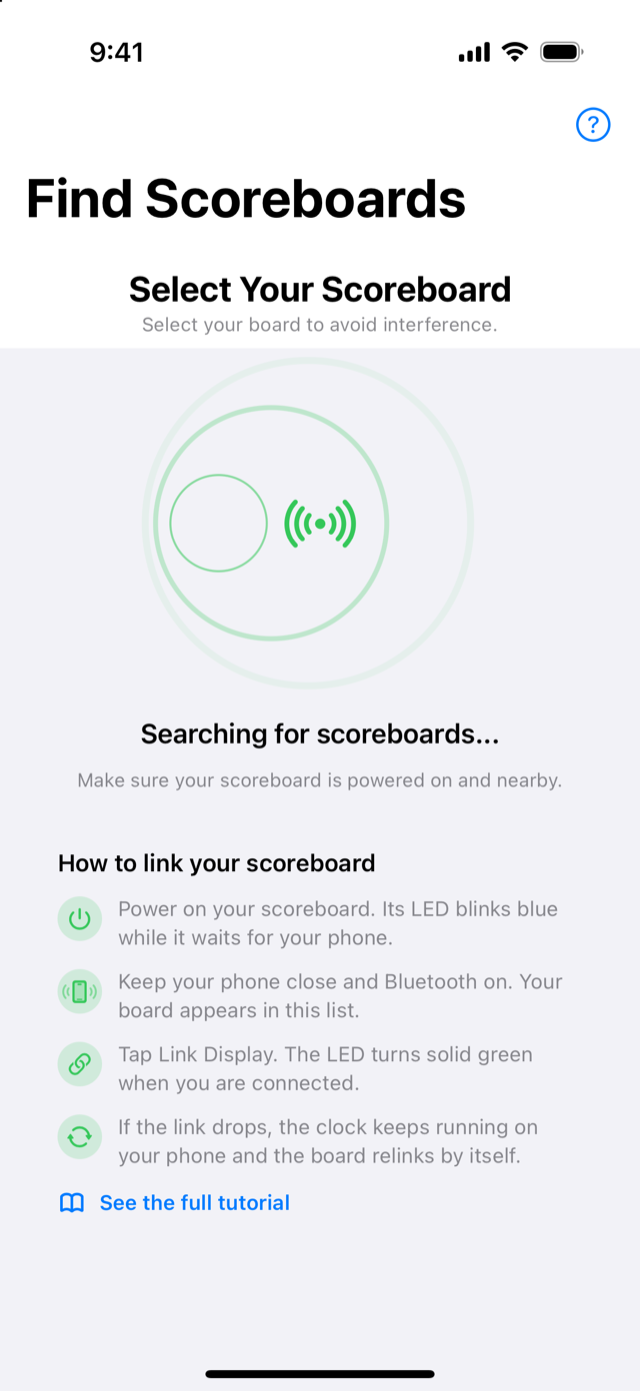
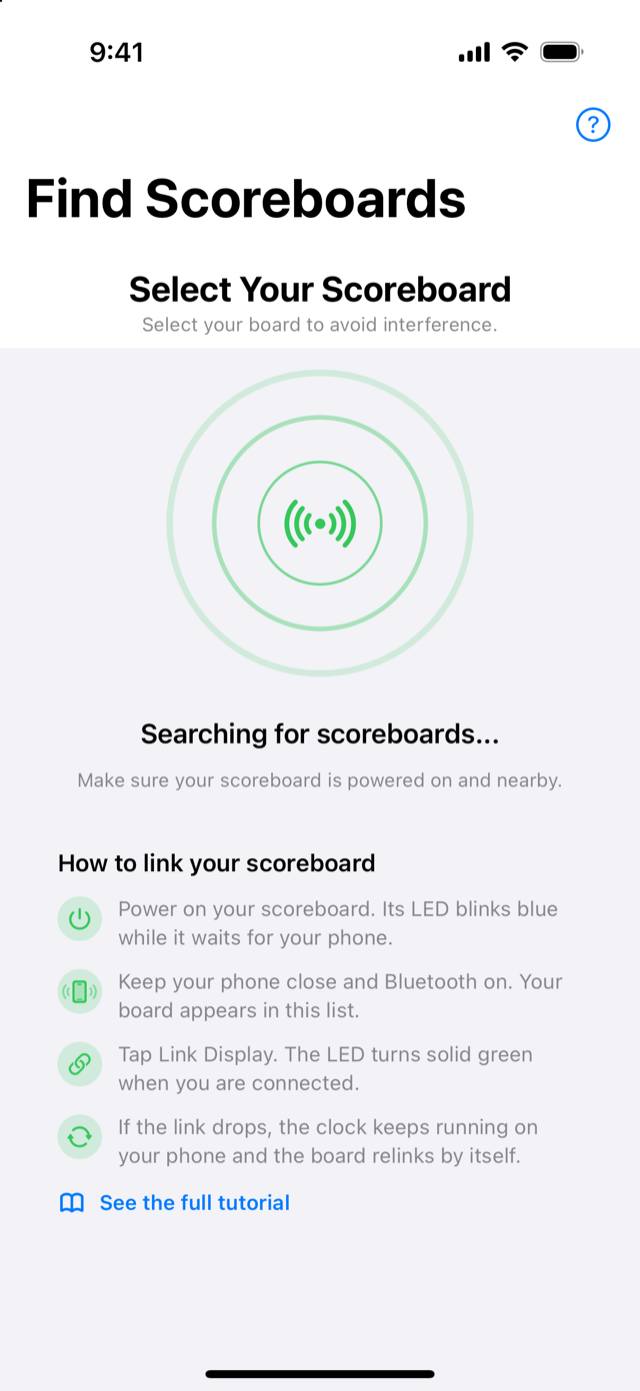
Watch: add/subtract scores, follow the phone, fit the screen; new tutorial images
- Watch app gets - / + buttons per team (0-99) and shares one WatchModel that
  follows the phone's scores, period, clock state and alerts. Each watch
  action sends only the value it changed, so stale values can't overwrite the
  phone.
- Phone pushes state to the watch even when no board is linked, and answers the
  watch's sync request on launch.
- Compact pill buttons so the whole watch screen fits (Reset was cut off);
  score text is white (it was nearly invisible).
- Show the period/match alert banner on the watch.
- Cleaner first tutorial image (frozen radar) and simulator watch screenshots
  in English and Spanish; tutorial page 5 and docs updated.

diff --git a/ScoreboardWatch Watch App/ContentView.swift b/ScoreboardWatch Watch App/ContentView.swift
@@ -6,149 +6,165 @@
 //
 
 import SwiftUI
+import Combine
 import WatchConnectivity
 import WatchKit
 
-class WatchSessionDelegate: NSObject, WCSessionDelegate {
-    func session(_ session: WCSession, activationDidCompleteWith activationState: WCSessionActivationState, error: Error?) {}
-    
-    // Captures the background alert payload string signals forwarded from your iPhone
-    func session(_ session: WCSession, didReceiveMessage message: [String : Any]) {
-        if let alertID = message["triggerAlert"] as? Int {
-            DispatchQueue.main.async {
+/// Watch-side copy of the match state. The iPhone app owns the clock and the Bluetooth link;
+/// the watch follows its updates and sends back only the value the user just changed.
+final class WatchModel: NSObject, ObservableObject, WCSessionDelegate {
+    @Published var homeScore = 0
+    @Published var awayScore = 0
+    @Published var period = 1
+    @Published var totalPeriods = 4
+    @Published var isRunning = false
+    @Published var periodLabelText = String(localized: "Period")
+    @Published var alertText = ""
+    @Published var showAlert = false
+
+    static let maxScore = 99
+
+    override init() {
+        super.init()
+        // Sample state for tutorial screenshots in the simulator (`-demo`).
+        if ProcessInfo.processInfo.arguments.contains("-demo") { homeScore = 12; awayScore = 9; period = 2 }
+        if WCSession.isSupported() {
+            WCSession.default.delegate = self
+            WCSession.default.activate()
+        }
+    }
+
+    // MARK: - Actions (each sends only the keys it changed, so a stale value can't overwrite the phone)
+    func changeHome(by delta: Int) { homeScore = min(max(homeScore + delta, 0), Self.maxScore); send(["h": homeScore]) }
+    func changeAway(by delta: Int) { awayScore = min(max(awayScore + delta, 0), Self.maxScore); send(["a": awayScore]) }
+    func nextPeriod() { period = period < totalPeriods ? period + 1 : 1; send(["p": period]) }
+    func toggleRunning() { isRunning.toggle(); send(["r": isRunning]) }
+    func reset() {
+        homeScore = 0; awayScore = 0; period = 1; isRunning = false
+        send(["h": 0, "a": 0, "p": 1, "r": false])
+    }
+
+    private func send(_ payload: [String: Any]) {
+        guard WCSession.default.activationState == .activated else { return }
+        WCSession.default.sendMessage(payload, replyHandler: nil, errorHandler: nil)
+    }
+
+    // MARK: - WCSessionDelegate
+    func session(_ session: WCSession, activationDidCompleteWith activationState: WCSessionActivationState, error: Error?) {
+        // Ask the phone for the current match state; it answers with a full update.
+        if activationState == .activated { send(["sync": true]) }
+    }
+
+    func session(_ session: WCSession, didReceiveMessage message: [String: Any]) {
+        DispatchQueue.main.async {
+            // State pushed by the iPhone (scores, period, clock running, labels)
+            if let h = message["h"] as? Int { self.homeScore = min(max(h, 0), Self.maxScore) }
+            if let a = message["a"] as? Int { self.awayScore = min(max(a, 0), Self.maxScore) }
+            if let t = message["t"] as? Int, t >= 1 { self.totalPeriods = t }
+            if let p = message["p"] as? Int { self.period = min(max(p, 1), self.totalPeriods) }
+            if let r = message["r"] as? Bool { self.isRunning = r }
+            if let l = message["l"] as? String { self.periodLabelText = l }
+
+            // Alerts from the iPhone: haptic for kickoff, period change and final whistle, plus a banner
+            if let alertID = message["triggerAlert"] as? Int {
                 switch alertID {
-                case 1:
-                    // Digital Click Tap for kickoff/start
-                    WKInterfaceDevice.current().play(.click)
-                case 2:
-                    // Distinct long notification chime/vibration for intermission
-                    WKInterfaceDevice.current().play(.notification)
-                case 3:
-                    // Loud, prolonged Alarm tone vibration mimicking the final match whistle
-                    WKInterfaceDevice.current().play(.success)
-                default:
-                    break
+                case 1: WKInterfaceDevice.current().play(.click)
+                case 2: WKInterfaceDevice.current().play(.notification)
+                case 3: WKInterfaceDevice.current().play(.success)
+                default: break
                 }
+            }
+            if let text = message["alertText"] as? String, !text.isEmpty {
+                self.alertText = text
+                withAnimation { self.showAlert = true }
+                DispatchQueue.main.asyncAfter(deadline: .now() + 2.5) { withAnimation { self.showAlert = false } }
             }
         }
-        if let alertText = message["alertText"] as? String {
-                DispatchQueue.main.async {
-                    // Accessing global view bindings directly can break scope rules inside un-mapped delegates.
-                    // Instead, pass the alert trigger downstream over a global Notification Center posting or write into a shared view controller model if preferred.
-                }
-            }
-        
     }
 }
+
 // MARK: - Watch Control Interface Layout View
 struct ContentView: View {
-    @State private var homeScore = 0
-    @State private var awayScore = 0
-    @State private var period = 1
-    @State private var totalPeriods = 4
-    @State private var isRunning = false
-    @State private var periodLabelText = String(localized: "Period")
-    @State private var sessionDelegate = WatchSessionDelegate()
-    @State private var watchAlertText = ""
-    @State private var showWatchAlert = false
-
-    // Transmits messages instantly down to the linked iPhone background receiver
-    func pushToPhone() {
-        guard WCSession.default.activationState == .activated else {
-            print("Sync Error: Watch Session Not Active")
-            return
+    @StateObject private var model = WatchModel()
+    
+    /// Compact capsule button so the whole screen fits on the watch without scrolling.
+    private func pill<Label: View>(tint: Color, filled: Bool = false, height: CGFloat = 32,
+                                   action: @escaping () -> Void, @ViewBuilder label: () -> Label) -> some View {
+        Button(action: action) {
+            label()
+                .frame(maxWidth: .infinity, minHeight: height)
+                .background(filled ? tint : tint.opacity(0.28), in: Capsule())
         }
-        let payload: [String: Any] = [
-            "h": homeScore,
-            "a": awayScore,
-            "p": period,
-            "r": isRunning,
-            "t": totalPeriods,
-            "l": periodLabelText
-        ]
-        WCSession.default.sendMessage(payload, replyHandler: nil, errorHandler: nil)
+        .buttonStyle(.plain)
+    }
+    
+    /// One team: name, score and - / + buttons.
+    private func teamBlock(name: LocalizedStringKey, color: Color, score: Int,
+                           change: @escaping (Int) -> Void) -> some View {
+        VStack(spacing: 3) {
+            Text(name).font(.system(size: 10, weight: .bold)).foregroundColor(color)
+            Text("\(score)").font(.title2).bold().foregroundColor(.white)
+            HStack(spacing: 4) {
+                pill(tint: color, height: 30, action: { change(-1) }) {
+                    Image(systemName: "minus").font(.system(size: 14, weight: .bold)).foregroundColor(.white)
+                }
+                .opacity(score <= 0 ? 0.4 : 1).disabled(score <= 0)
+                pill(tint: color, filled: true, height: 30, action: { change(1) }) {
+                    Image(systemName: "plus").font(.system(size: 14, weight: .bold)).foregroundColor(.white)
+                }
+                .opacity(score >= WatchModel.maxScore ? 0.4 : 1).disabled(score >= WatchModel.maxScore)
+            }
+        }
+        .padding(6)
+        .frame(maxWidth: .infinity)
+        .background(color.opacity(0.15))
+        .cornerRadius(14)
     }
     
     var body: some View {
         ZStack {
             ScrollView {
-                VStack(spacing: 8) {
+                VStack(spacing: 6) {
                     HStack(spacing: 6) {
-                        // Home Increment Block
-                        Button(action: { homeScore += 1; pushToPhone() }) {
-                            VStack(spacing: 2) {
-                                Text("HOME").font(.system(size: 10, weight: .bold)).foregroundColor(.blue)
-                                Text("\(homeScore)").font(.title2).bold()
-                            }
-                        }
-                        .buttonStyle(.bordered)
-                        .tint(.blue.opacity(0.15))
-                        
-                        // Away Increment Block
-                        Button(action: { awayScore += 1; pushToPhone() }) {
-                            VStack(spacing: 2) {
-                                Text("AWAY").font(.system(size: 10, weight: .bold)).foregroundColor(.red)
-                                Text("\(awayScore)").font(.title2).bold()
-                            }
-                        }
-                        .buttonStyle(.bordered)
-                        .tint(.red.opacity(0.15))
+                        teamBlock(name: "HOME", color: .blue, score: model.homeScore) { model.changeHome(by: $0) }
+                        teamBlock(name: "AWAY", color: .red, score: model.awayScore) { model.changeAway(by: $0) }
                     }
                     
                     HStack(spacing: 6) {
                         // Period Cycle Selector Toggle
-                        Button(action: {
-                            period = period < totalPeriods ? period + 1 : 1
-                            pushToPhone()
-                        }) {
-                            Text("PER: \(period)/\(totalPeriods)")
+                        pill(tint: .gray, action: { model.nextPeriod() }) {
+                            Text("PER: \(model.period)/\(model.totalPeriods)")
                                 .font(.system(size: 10, weight: .semibold))
                                 .foregroundColor(.yellow)
                         }
                         
                         // Timer Start / Pause Switch Flag
-                        Button(action: { isRunning.toggle(); pushToPhone() }) {
-                            Text(LocalizedStringKey(isRunning ? "PAUSE" : "START"))
+                        pill(tint: .gray, action: { model.toggleRunning() }) {
+                            Text(LocalizedStringKey(model.isRunning ? "PAUSE" : "START"))
                                 .font(.system(size: 10, weight: .bold))
-                                .foregroundColor(isRunning ? .orange : .green)
+                                .foregroundColor(model.isRunning ? .orange : .green)
                         }
                     }
                     
                     // Match Zero-Reset
-                    Button("Reset Values") {
-                        homeScore = 0
-                        awayScore = 0
-                        period = 1
-                        isRunning = false
-                        pushToPhone()
+                    pill(tint: .gray, height: 26, action: { model.reset() }) {
+                        Text("Reset Values").font(.caption2).foregroundColor(.secondary)
                     }
-                    .font(.caption2)
-                    .foregroundColor(.secondary)
-                    .padding(.top, 4)
                 }
                 .padding(.horizontal, 4)
             }
-            // FIXED: APPLE WATCH VISUAL HUD BANNER OVERLAY CARD
-            if showWatchAlert {
-                    VStack {
-                        Text(watchAlertText)
-                            .font(.caption2).bold()
-                            .multilineTextAlignment(.center)
-                            .padding(8)
-                            .background(Color.purple.cornerRadius(8))
-                            .shadow(radius: 4)
-                        Spacer()
-                    }
-                    .transition(.move(edge: .top))
-                    .onAppear {
-                        DispatchQueue.main.asyncAfter(deadline: .now() + 2.5) { self.showWatchAlert = false }
-                    }
+            // Banner for period start / match end alerts sent by the iPhone
+            if model.showAlert {
+                VStack {
+                    Text(model.alertText)
+                        .font(.caption2).bold()
+                        .multilineTextAlignment(.center)
+                        .padding(8)
+                        .background(Color.purple.cornerRadius(8))
+                        .shadow(radius: 4)
+                    Spacer()
                 }
-        }
-        .onAppear {
-            if WCSession.isSupported() {
-                WCSession.default.delegate = sessionDelegate
-                WCSession.default.activate()
+                .transition(.move(edge: .top))
             }
         }
     }

diff --git a/BLEScoreboard/ContentView.swift b/BLEScoreboard/ContentView.swift
@@ -4,6 +4,10 @@ import CoreBluetooth
 /// Pulsing radar rings shown while the app scans for scoreboards.
 struct ScanningRadarView: View {
     @State private var pulse = false
+    /// `-staticRadar` freezes the rings in an evenly spaced pose, used for tutorial screenshots.
+    private let frozen = ProcessInfo.processInfo.arguments.contains("-staticRadar")
+    private let frozenScale: [CGFloat] = [0.55, 0.95, 1.35]
+    private let frozenOpacity: [Double] = [0.9, 0.55, 0.25]
     
     var body: some View {
         ZStack {
@@ -11,16 +15,16 @@ struct ScanningRadarView: View {
                 Circle()
                     .stroke(Color.green.opacity(0.7), lineWidth: 3)
                     .frame(width: 140, height: 140)
-                    .scaleEffect(pulse ? 1.6 : 0.3)
-                    .opacity(pulse ? 0 : 0.9)
-                    .animation(.easeOut(duration: 2.4).repeatForever(autoreverses: false).delay(Double(i) * 0.8), value: pulse)
+                    .scaleEffect(frozen ? frozenScale[i] : (pulse ? 1.6 : 0.3))
+                    .opacity(frozen ? frozenOpacity[i] : (pulse ? 0 : 0.9))
+                    .animation(frozen ? nil : .easeOut(duration: 2.4).repeatForever(autoreverses: false).delay(Double(i) * 0.8), value: pulse)
             }
             Image(systemName: "dot.radiowaves.left.and.right")
                 .font(.system(size: 34, weight: .semibold))
                 .foregroundColor(.green)
         }
         .frame(width: 220, height: 220)
-        .onAppear { pulse = true }
+        .onAppear { if !frozen { pulse = true } }
         .accessibilityHidden(true)
     }
 }

diff --git a/BLEScoreboard/TutorialViews.swift b/BLEScoreboard/TutorialViews.swift
@@ -64,8 +64,8 @@ struct TutorialView: View {
              text: "Choose the period, the number of periods and the panel brightness. Rename the period unit (Quarter, Half, Tiempo) and the board from the top card.",
              image: "tutorial-4-setup", icon: "slider.horizontal.3"),
         Page(title: "5. Apple Watch and alerts",
-             text: "The Watch app adds points, changes the period and starts or pauses the clock from your wrist. You get a banner and a tap when a period starts and when the match ends.",
-             image: nil, icon: "applewatch")
+             text: "The Watch app lets you add or subtract points, change the period and start or pause the clock from your wrist. It follows your phone, so both always show the same score. You get a banner and a tap when a period starts and when the match ends.",
+             image: "tutorial-5-watch", icon: "applewatch")
     ]
 
     /// "es" when the phone is set to Spanish, otherwise English.

diff --git a/BLEScoreboard/AdvancedBLEManager.swift b/BLEScoreboard/AdvancedBLEManager.swift
@@ -128,6 +128,7 @@ class AdvancedBLEManager: NSObject, ObservableObject, CBCentralManagerDelegate, 
     }
     
     func syncDataToDisplay() {
+        syncWatchData()  // the watch follows the phone even when no board is linked
         guard let peripheral = connectedPeripheral, let characteristic = targetCharacteristic else { return }
         
         var packet = Data([
@@ -151,7 +152,6 @@ class AdvancedBLEManager: NSObject, ObservableObject, CBCentralManagerDelegate, 
         if let textData = stringPayload.data(using: .utf8) { packet.append(textData) }
         
         peripheral.writeValue(packet, for: characteristic, type: .withResponse)
-        syncWatchData()
     }
     
     // MARK: - Board rename (CONFIG characteristic)

diff --git a/docs/TUTORIAL.es.md b/docs/TUTORIAL.es.md
@@ -32,7 +32,9 @@ Elige el periodo actual, el total de periodos y el brillo del panel. En la tarje
 
 ## 5. Apple Watch y alertas
 
-La app del Watch suma puntos, cambia el periodo e inicia o pausa el reloj desde tu muñeca. Un aviso y un toque en tu teléfono y tu reloj indican cuándo empieza un periodo y cuándo termina el partido.
+La app del Watch te permite sumar o restar puntos (− y + para cada equipo), cambiar el periodo e iniciar o pausar el reloj desde tu muñeca. Sigue a tu teléfono, así que ambos muestran siempre el mismo marcador. Un aviso y un toque en tu teléfono y tu reloj indican cuándo empieza un periodo y cuándo termina el partido.
+
+<img src="images/5-watch-es.png" width="200" alt="Control remoto en Apple Watch">
 
 ## Solución de problemas
 

diff --git a/docs/TUTORIAL.md b/docs/TUTORIAL.md
@@ -32,7 +32,9 @@ Choose the current period, the total number of periods and the panel brightness.
 
 ## 5. Apple Watch and alerts
 
-The Watch app adds points, changes the period and starts or pauses the clock from your wrist. A banner and a tap on your phone and watch announce when a period starts and when the match ends.
+The Watch app lets you add or subtract points (− and + for each team), change the period and start or pause the clock from your wrist. It follows your phone, so both always show the same score. A banner and a tap on your phone and watch announce when a period starts and when the match ends.
+
+<img src="images/5-watch-en.png" width="200" alt="Apple Watch remote">
 
 ## Troubleshooting
 
